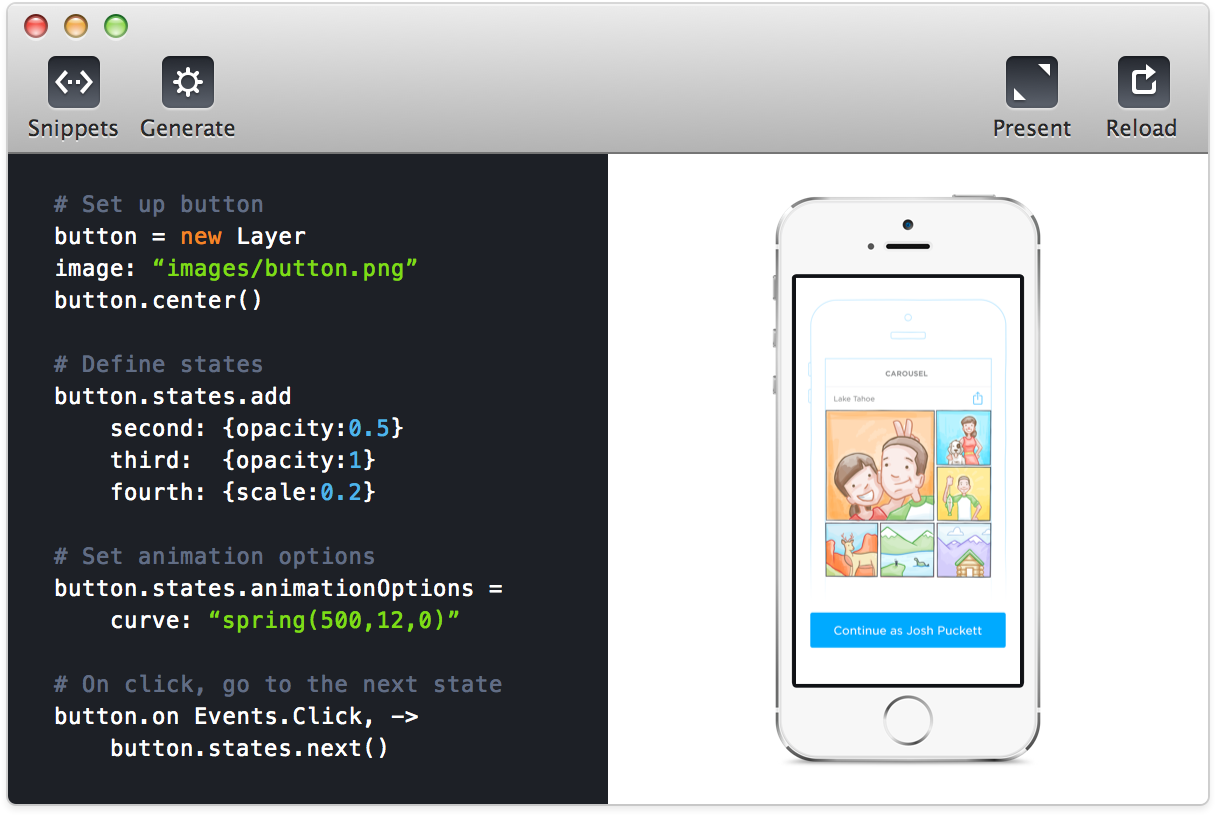
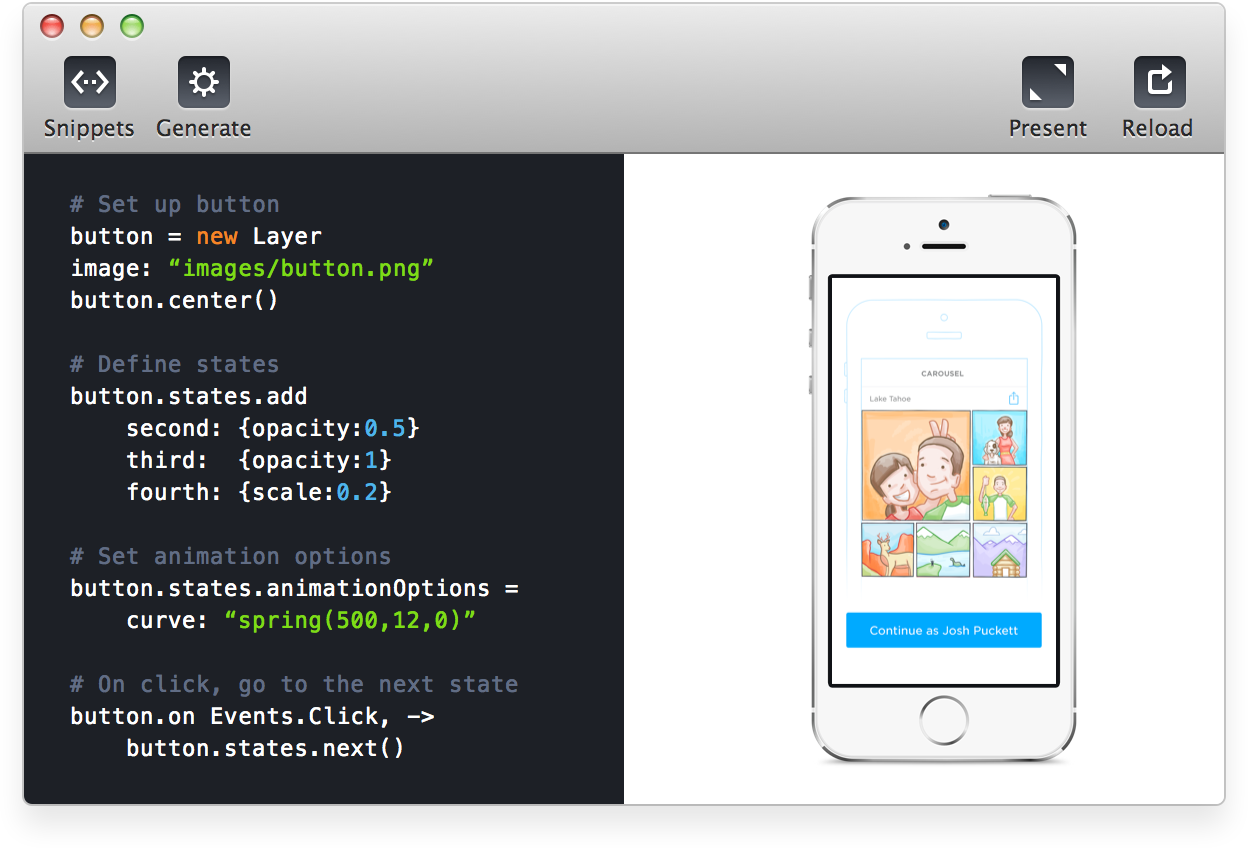
Many fixes / Structure / Block

Changed region(s): [[0.0, 0.0, 1.0, 1.0]]

diff --git a/static/css/style-studio.css b/static/css/style-studio.css
@@ -208,6 +208,36 @@ img.app-icon {
   color: #7DDC16; }
 
 /* SCREENSHOT -------------------------*/
+#screenshot {
+  background: url("/static/images/fs/ss-bg.png") no-repeat;
+  background-size: 764px 460px;
+  background-position: 50% 0%;
+  text-align: center;
+  width: 100%;
+  height: 100%;
+  margin-top: 80px;
+  padding-top: 80px;
+  margin-bottom: 40px;
+  position: relative; }
+
+#screenshot-copy p {
+  font-size: 19px;
+  color: #999; }
+
+#screenshot .video-wrapper {
+  width: 50%;
+  position: absolute;
+  top: 0;
+  right: 0;
+  height: 100%; }
+
+#screenshot video {
+  position: absolute;
+  max-width: 112px;
+  top: 223px;
+  z-index: 100;
+  left: 104px; }
+
 #screenshot-copy {
   text-align: center; }
 
@@ -219,7 +249,7 @@ img.app-icon {
 #screenshot-copy li p {
   display: block;
   color: rgba(29, 32, 38, 0.6);
-  margin-top: 20px;
+  margin-top: 10px;
   margin-bottom: 0;
   font-size: 23px;
   line-height: 1.5;
@@ -229,52 +259,14 @@ img.app-icon {
 #screenshot-copy li {
   max-width: 280px;
   list-style: none;
-  float: left; }
+  float: left;
+  margin-bottom: -20px; }
 
 section.mobile {
   display: none; }
 
 #screenshot-copy li:first-child {
   margin-right: 40px; }
-
-/*Retina*/
-@media (-webkit-min-device-pixel-ratio: 1.5) {
-  #screenshot-copy li:first-child:after, #screenshot-copy li:last-child:after {
-    background: url("/static/images/fs/ss-indicator@2x.png") no-repeat;
-    background-size: cover; } }
-#screenshot {
-  text-align: center;
-  background: url("/static/images/fs/ss-bg.png") no-repeat;
-  background-size: 764px 460px;
-  background-position: 50% 0%;
-  width: 100%;
-  height: 100%;
-  position: relative;
-  padding-top: 80px;
-  margin-top: 80px;
-  margin-bottom: 60px;
-  position: relative; }
-
-#screenshot-copy p {
-  font-size: 19px;
-  color: #999; }
-
-#screenshot figure {
-  position: relative;
-  max-width: 608px;
-  margin: 0 auto; }
-
-#screenshot video {
-  position: absolute;
-  max-width: 112px;
-  top: 143px;
-  right: 98px;
-  z-index: 100; }
-
-img.studio {
-  position: relative;
-  max-width: 608px;
-  width: 100%; }
 
 /* BODY SECTIONS -------------------------*/
 /* Two Columns */
@@ -359,7 +351,7 @@ img.studio {
 
 /* INTERACTION SECTION -------------------------*/
 #interaction {
-  background: #2A2F38;
+  background: #282D36;
   padding: 80px 0;
   margin: 80px 0 0 0;
   position: relative; }
@@ -415,7 +407,7 @@ img.studio {
 
 .feature-block p.title {
   font-size: 22px;
-  margin-bottom: 5px;
+  margin-bottom: 10px;
   line-height: 1.2; }
 
 .feature-block section li img {
@@ -524,6 +516,9 @@ img.studio {
 @media only screen and (max-width: 768px) {
   .half section {
     width: 48%; }
+
+  .half section section {
+    width: 100%; }
 
   p {
     font-size: 16px; }

diff --git a/static/css/style-studio.scss b/static/css/style-studio.scss
@@ -232,6 +232,34 @@ img.app-icon {
 
 
 /* SCREENSHOT -------------------------*/
+#screenshot {
+	background:  url('/static/images/fs/ss-bg.png') no-repeat;
+	background-size: 764px 460px; background-position: 50% 0%;
+	text-align: center;
+	width: 100%; 
+	height: 100%;
+	margin-top: 80px;
+	padding-top: 80px;
+	margin-bottom: 40px;
+	position: relative;
+}
+
+#screenshot-copy p {
+	font-size: 19px;
+	color: #999;
+}
+
+
+#screenshot .video-wrapper {
+	width: 50%;
+	position: absolute; top: 0; right: 0;
+	height: 100%;
+}
+
+#screenshot video {
+	position: absolute; max-width: 112px;
+	top: 223px;  z-index: 100; left: 104px;
+}
 
 #screenshot-copy {
 	text-align: center;
@@ -245,7 +273,7 @@ img.app-icon {
 
 #screenshot-copy li p {
 	display: block; color: $grey60;
-	margin-top: 20px; margin-bottom: 0;
+	margin-top: 10px; margin-bottom: 0;
 	font-size: 23px; line-height: 1.5;
 	letter-spacing: 0; font-weight: 200;
 }
@@ -254,6 +282,7 @@ img.app-icon {
 	max-width:280px;
 	list-style: none;
 	float:left;
+	margin-bottom: -20px;
 }
 
 section.mobile {
@@ -262,44 +291,6 @@ section.mobile {
 
 #screenshot-copy li:first-child { margin-right: 40px }
 
-/*Retina*/
-@media (-webkit-min-device-pixel-ratio: 1.5) {
-	#screenshot-copy li:first-child:after, #screenshot-copy li:last-child:after {
-		background: url('/static/images/fs/ss-indicator@2x.png') no-repeat;
-		background-size: cover;
-	}
-}
-
-#screenshot {
-	text-align: center;
-	background:  url('/static/images/fs/ss-bg.png') no-repeat;
-	background-size: 764px 460px; background-position: 50% 0%;
-	width: 100%; 
-	height: 100%;
-	position: relative;
-	padding-top: 80px;
-	margin-top: 80px;
-	margin-bottom: 60px;
-	position: relative;
-}
-
-#screenshot-copy p {
-	font-size: 19px;
-	color: #999;
-}
-
-#screenshot figure {
-	position: relative;
-	max-width: 608px; margin: 0 auto;
-}
-
-#screenshot video {
-	position: absolute; max-width: 112px;
-	top: 143px; right: 98px; z-index: 100;
-}
-img.studio {
-	position: relative;max-width: 608px; width: 100%;
-}
 
 /* BODY SECTIONS -------------------------*/
 
@@ -390,7 +381,7 @@ img.studio {
 /* INTERACTION SECTION -------------------------*/
 
 #interaction {
-	background: #2A2F38;
+	background: #282D36;
 	padding: 80px 0;
 	margin: 80px 0 0 0;
 	position: relative;
@@ -400,7 +391,7 @@ img.studio {
 
 #interaction p {
 	font-weight: 300;
-	color: #fff;
+	color: #fff; 
 }
 
 #interaction h4 {
@@ -462,7 +453,7 @@ img.studio {
 
 .feature-block p.title {
 	font-size: 22px;
-	margin-bottom: 5px;
+	margin-bottom: 10px;
 	line-height: 1.2;
 }
 
@@ -588,6 +579,10 @@ img.studio {
 @media only screen and (max-width: 768px) {
 .half section {
 	width: 48%;
+}
+
+.half section section {
+	width: 100%;
 }
 
 p {

diff --git a/pages/studio/index.html b/pages/studio/index.html
@@ -31,12 +31,13 @@
 	</div> <!--inner-->
 	
 	<section id="screenshot">
-	<figure class="app-screenshot">
+		<img class="studio 2x" src="/static/images/fs/ui-studio.png">
+			
+		<section class="video-wrapper">
 		<video id="carousel-inapp" width="100%">
 		<source src="/static/images/fs/carousel-inapp.mov" type="video/mp4" />
 		</video>
-		<img class="2x studio" src="/static/images/fs/ui-studio.png">
-	</figure>
+		</section>
 	</section>
 	
 	<div class="inner">

diff --git a/static/css/style.css b/static/css/style.css
@@ -129,6 +129,7 @@ a:active {
 	color: #84D1FF; 
 	font-size: 16px;
 	margin-bottom: 10px;
+	font-weight: 500;
 }
 
 #sidebar ul li.headline.is-active a{
